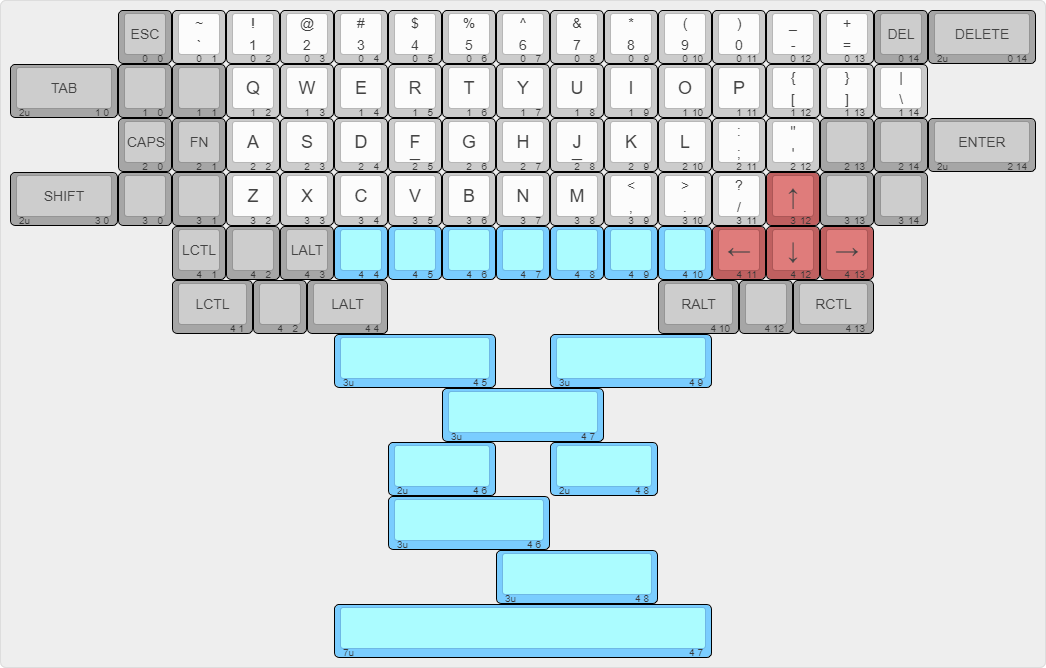
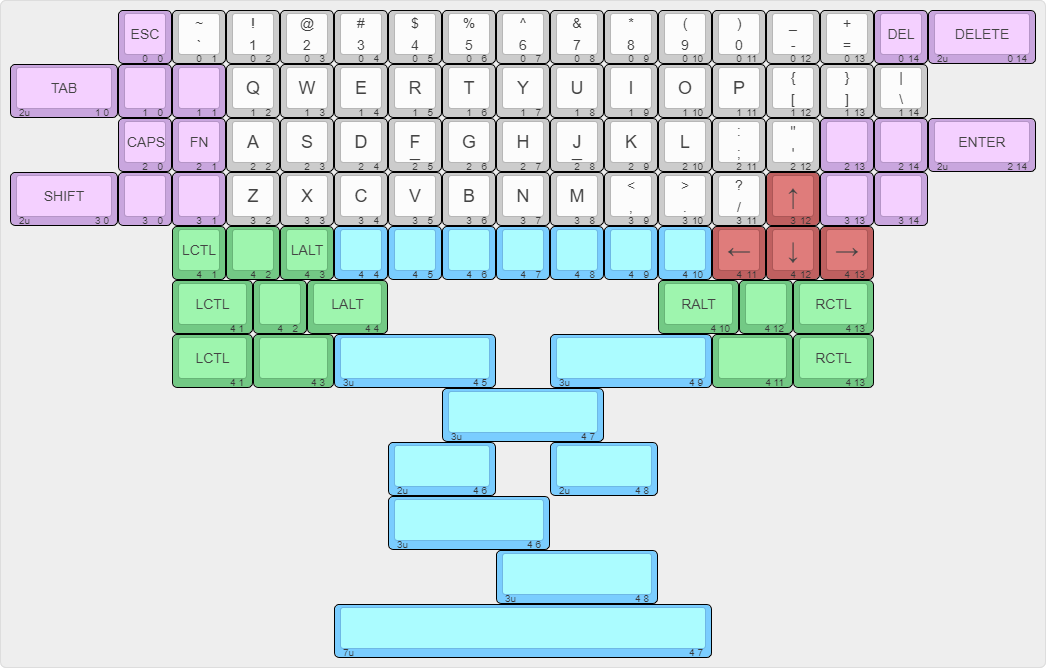
Updated KLE and Image

diff --git a/README.md b/README.md
@@ -18,14 +18,14 @@ The purpose of this keyboard is contain all of the features I would like to have
 ## Keyboard Layout Editor:
 
 ```
-[{x:2,c:"#a6a6a6",t:"#383838",st:"KS-3-Tea",a:3,f:4},"ESC\n\n\n\n\n0\n\n\n\n\n\n0",{c:"#cccccc",a:1},"~\n`\n\n\n\n1\n\n\n\n\n\n0","!\n1\n\n\n\n2\n\n\n\n\n\n0","@\n2\n\n\n\n3\n\n\n\n\n\n0","#\n3\n\n\n\n4\n\n\n\n\n\n0","$\n4\n\n\n\n5\n\n\n\n\n\n0","%\n5\n\n\n\n6\n\n\n\n\n\n0","^\n6\n\n\n\n7\n\n\n\n\n\n0","&\n7\n\n\n\n8\n\n\n\n\n\n0","*\n8\n\n\n\n9\n\n\n\n\n\n0","(\n9\n\n\n\n10\n\n\n\n\n\n0",")\n0\n\n\n\n11\n\n\n\n\n\n0","_\n-\n\n\n\n12\n\n\n\n\n\n0","+\n=\n\n\n\n13\n\n\n\n\n\n0",{c:"#a6a6a6",a:3},"DEL\n\n\n\n\n14\n\n\n\n\n\n0",{w:2},"DELETE\n\n\n\n2u\n0 14"],
+[{x:2,c:"#c9a6de",t:"#383838",st:"KS-3-Tea",a:3,f:4},"ESC\n\n\n\n\n0\n\n\n\n\n\n0",{c:"#cccccc",a:1},"~\n`\n\n\n\n1\n\n\n\n\n\n0","!\n1\n\n\n\n2\n\n\n\n\n\n0","@\n2\n\n\n\n3\n\n\n\n\n\n0","#\n3\n\n\n\n4\n\n\n\n\n\n0","$\n4\n\n\n\n5\n\n\n\n\n\n0","%\n5\n\n\n\n6\n\n\n\n\n\n0","^\n6\n\n\n\n7\n\n\n\n\n\n0","&\n7\n\n\n\n8\n\n\n\n\n\n0","*\n8\n\n\n\n9\n\n\n\n\n\n0","(\n9\n\n\n\n10\n\n\n\n\n\n0",")\n0\n\n\n\n11\n\n\n\n\n\n0","_\n-\n\n\n\n12\n\n\n\n\n\n0","+\n=\n\n\n\n13\n\n\n\n\n\n0",{c:"#c9a6de",a:3},"DEL\n\n\n\n\n14\n\n\n\n\n\n0",{w:2},"DELETE\n\n\n\n2u\n0 14"],
 [{w:2},"TAB\n\n\n\n2u\n1 0","\n\n\n\n\n0\n\n\n\n\n\n1","\n\n\n\n\n1\n\n\n\n\n\n1",{c:"#cccccc",f:6},"Q\n\n\n\n\n2\n\n\n\n\n\n1","W\n\n\n\n\n3\n\n\n\n\n\n1","E\n\n\n\n\n4\n\n\n\n\n\n1","R\n\n\n\n\n5\n\n\n\n\n\n1","T\n\n\n\n\n6\n\n\n\n\n\n1","Y\n\n\n\n\n7\n\n\n\n\n\n1","U\n\n\n\n\n8\n\n\n\n\n\n1","I\n\n\n\n\n9\n\n\n\n\n\n1","O\n\n\n\n\n10\n\n\n\n\n\n1","P\n\n\n\n\n11\n\n\n\n\n\n1",{a:1,f:4},"{\n[\n\n\n\n12\n\n\n\n\n\n1","}\n]\n\n\n\n13\n\n\n\n\n\n1","|\n\\\n\n\n\n14\n\n\n\n\n\n1"],
-[{x:2,c:"#a6a6a6",a:3},"CAPS\n\n\n\n\n0\n\n\n\n\n\n2","FN\n\n\n\n\n1\n\n\n\n\n\n2",{c:"#cccccc",f:6},"A\n\n\n\n\n2\n\n\n\n\n\n2","S\n\n\n\n\n3\n\n\n\n\n\n2","D\n\n\n\n\n4\n\n\n\n\n\n2",{a:1},"\n_\n\n\n\n5\nF\n\n\n\n\n2",{a:3},"G\n\n\n\n\n6\n\n\n\n\n\n2","H\n\n\n\n\n7\n\n\n\n\n\n2",{a:1},"\n_\n\n\n\n8\nJ\n\n\n\n\n2",{a:3},"K\n\n\n\n\n9\n\n\n\n\n\n2","L\n\n\n\n\n10\n\n\n\n\n\n2",{a:1,f:4},":\n;\n\n\n\n11\n\n\n\n\n\n2","\"\n'\n\n\n\n12\n\n\n\n\n\n2",{c:"#a6a6a6",a:3},"\n\n\n\n\n13\n\n\n\n\n\n2","\n\n\n\n\n14\n\n\n\n\n\n2",{w:2},"ENTER\n\n\n\n2u\n2 14"],
-[{w:2},"SHIFT\n\n\n\n2u\n3 0","\n\n\n\n\n0\n\n\n\n\n\n3","\n\n\n\n\n1\n\n\n\n\n\n3",{c:"#cccccc",f:6},"Z\n\n\n\n\n2\n\n\n\n\n\n3","X\n\n\n\n\n3\n\n\n\n\n\n3","C\n\n\n\n\n4\n\n\n\n\n\n3","V\n\n\n\n\n5\n\n\n\n\n\n3","B\n\n\n\n\n6\n\n\n\n\n\n3","N\n\n\n\n\n7\n\n\n\n\n\n3","M\n\n\n\n\n8\n\n\n\n\n\n3",{a:1,f:4},"<\n,\n\n\n\n9\n\n\n\n\n\n3",">\n.\n\n\n\n10\n\n\n\n\n\n3","?\n/\n\n\n\n11\n\n\n\n\n\n3",{c:"#bf6060",a:3,f:9},"↑\n\n\n\n\n12\n\n\n\n\n\n3",{c:"#a6a6a6",f:4},"\n\n\n\n\n13\n\n\n\n\n\n3","\n\n\n\n\n14\n\n\n\n\n\n3"],
-[{x:3},"LCTL\n\n\n\n\n1\n\n\n\n\n\n4","\n\n\n\n\n2\n\n\n\n\n\n4","LALT\n\n\n\n\n3\n\n\n\n\n\n4",{c:"#7acdff",sm:"alps"},"\n\n\n\n\n4\n\n\n\n\n\n4","\n\n\n\n\n5\n\n\n\n\n\n4","\n\n\n\n\n6\n\n\n\n\n\n4","\n\n\n\n\n7\n\n\n\n\n\n4","\n\n\n\n\n8\n\n\n\n\n\n4","\n\n\n\n\n9\n\n\n\n\n\n4",{sm:""},"\n\n\n\n\n10\n\n\n\n\n\n4",{c:"#bf6060",f:9},"←\n\n\n\n\n11\n\n\n\n\n\n4","↓\n\n\n\n\n12\n\n\n\n\n\n4","→\n\n\n\n\n13\n\n\n\n\n\n4"],
-[{x:3,c:"#a6a6a6",f:4,w:1.5},"LCTL\n\n\n\n\n4 1","\n\n\n\n\n2\n\n\n\n\n\n4",{sm:"alps",w:1.5},"LALT\n\n\n\n\n4 4",{x:5,w:1.5},"RALT\n\n\n\n\n4 10",{sm:""},"\n\n\n\n\n4 12",{w:1.5},"RCTL\n\n\n\n\n4 13"],
-[{x:6,c:"#7acdff",w:3},"\n\n\n\n3u\n4 5",{x:1,w:3},"\n\n\n\n3u\n4 9"],
-[{x:8,w:3},"\n\n\n\n3u\n4 7"],
+[{x:2,c:"#c9a6de",a:3},"CAPS\n\n\n\n\n0\n\n\n\n\n\n2","FN\n\n\n\n\n1\n\n\n\n\n\n2",{c:"#cccccc",f:6},"A\n\n\n\n\n2\n\n\n\n\n\n2","S\n\n\n\n\n3\n\n\n\n\n\n2","D\n\n\n\n\n4\n\n\n\n\n\n2",{a:1},"\n_\n\n\n\n5\nF\n\n\n\n\n2",{a:3},"G\n\n\n\n\n6\n\n\n\n\n\n2","H\n\n\n\n\n7\n\n\n\n\n\n2",{a:1},"\n_\n\n\n\n8\nJ\n\n\n\n\n2",{a:3},"K\n\n\n\n\n9\n\n\n\n\n\n2","L\n\n\n\n\n10\n\n\n\n\n\n2",{a:1,f:4},":\n;\n\n\n\n11\n\n\n\n\n\n2","\"\n'\n\n\n\n12\n\n\n\n\n\n2",{c:"#c9a6de",a:3},"\n\n\n\n\n13\n\n\n\n\n\n2","\n\n\n\n\n14\n\n\n\n\n\n2",{w:2},"ENTER\n\n\n\n2u\n2 14"],
+[{w:2},"SHIFT\n\n\n\n2u\n3 0","\n\n\n\n\n0\n\n\n\n\n\n3","\n\n\n\n\n1\n\n\n\n\n\n3",{c:"#cccccc",f:6},"Z\n\n\n\n\n2\n\n\n\n\n\n3","X\n\n\n\n\n3\n\n\n\n\n\n3","C\n\n\n\n\n4\n\n\n\n\n\n3","V\n\n\n\n\n5\n\n\n\n\n\n3","B\n\n\n\n\n6\n\n\n\n\n\n3","N\n\n\n\n\n7\n\n\n\n\n\n3","M\n\n\n\n\n8\n\n\n\n\n\n3",{a:1,f:4},"<\n,\n\n\n\n9\n\n\n\n\n\n3",">\n.\n\n\n\n10\n\n\n\n\n\n3","?\n/\n\n\n\n11\n\n\n\n\n\n3",{c:"#bf6060",a:3,f:9},"↑\n\n\n\n\n12\n\n\n\n\n\n3",{c:"#c9a6de",f:4},"\n\n\n\n\n13\n\n\n\n\n\n3","\n\n\n\n\n14\n\n\n\n\n\n3"],
+[{x:3,c:"#73c985"},"LCTL\n\n\n\n\n1\n\n\n\n\n\n4","\n\n\n\n\n2\n\n\n\n\n\n4","LALT\n\n\n\n\n3\n\n\n\n\n\n4",{c:"#7acdff",sm:"alps"},"\n\n\n\n\n4\n\n\n\n\n\n4","\n\n\n\n\n5\n\n\n\n\n\n4","\n\n\n\n\n6\n\n\n\n\n\n4","\n\n\n\n\n7\n\n\n\n\n\n4","\n\n\n\n\n8\n\n\n\n\n\n4","\n\n\n\n\n9\n\n\n\n\n\n4",{sm:""},"\n\n\n\n\n10\n\n\n\n\n\n4",{c:"#bf6060",f:9},"←\n\n\n\n\n11\n\n\n\n\n\n4","↓\n\n\n\n\n12\n\n\n\n\n\n4","→\n\n\n\n\n13\n\n\n\n\n\n4"],
+[{x:3,c:"#73c985",f:4,w:1.5},"LCTL\n\n\n\n\n4 1","\n\n\n\n\n2\n\n\n\n\n\n4",{sm:"alps",w:1.5},"LALT\n\n\n\n\n4 4",{x:5,w:1.5},"RALT\n\n\n\n\n4 10",{sm:""},"\n\n\n\n\n4 12",{w:1.5},"RCTL\n\n\n\n\n4 13"],
+[{x:3,w:1.5},"LCTL\n\n\n\n\n4 1",{w:1.5},"\n\n\n\n\n4 3",{c:"#7acdff",w:3},"\n\n\n\n3u\n4 5",{x:1,w:3},"\n\n\n\n3u\n4 9",{c:"#73c985",w:1.5},"\n\n\n\n\n4 11",{w:1.5},"RCTL\n\n\n\n\n4 13"],
+[{x:8,c:"#7acdff",w:3},"\n\n\n\n3u\n4 7"],
 [{x:7,w:2},"\n\n\n\n2u\n4 6",{x:1,w:2},"\n\n\n\n2u\n4 8"],
 [{x:7,w:3},"\n\n\n\n3u\n4 6"],
 [{x:9,w:3},"\n\n\n\n3u\n4 8"],
